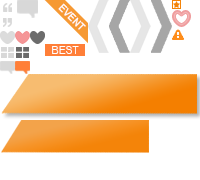
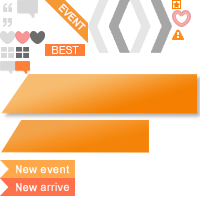
new 상품 띄우기 및 페이징 처리 수정 new arrive, new Event수정

diff --git a/mirros.mobile/src/main/webapp/resources/css/mobile-mirros.css b/mirros.mobile/src/main/webapp/resources/css/mobile-mirros.css
@@ -14,15 +14,15 @@
 }
 .mm-home-menu>span{ background: url("../images/mm-nav-btn.png") 0 -25px; display: block; width: 25px; height: 25px; text-indent: -9999px; margin: 8px auto 7px auto;}
 .mm-home-search>span{ background: url("../images/mm-nav-btn.png") 0 0; display: block; width: 25px; height: 25px; text-indent: -9999px; margin: 8px auto 7px auto;}
-.mm-home-nav>ul{ float: left; width: 100%;}
-.mm-home-nav>ul>li{float: left; width: 100%; height: 40px; text-align: center; line-height: 40px; border-bottom: 1px solid #dbd9ca;  }
+.mm-home-nav>ul{ float: left; width: 100%; }
+.mm-home-nav>ul>li{float: left; width: 100%; height: 40px; text-align: center; line-height: 40px; border-bottom: 1px solid #dbd9ca;  z-index :10;}
 .mm-home-nav>ul>li>a>span{font-family: Arial; font-size: 75%; cursor: pointer;}
 .mm-home-nav>ul>li>a, .mm-home-nav>ul>li>a:VISITED, .mm-home-nav>ul>li>a:HOVER{color: #646464;}
 
-.mm-home-sub-nav{ position: fixed; width: 140px; top: 0; left: 0; padding-top: 45px; margin-left: 69px; 	background:#f6f6f6;
+.mm-home-sub-nav{ position: fixed; width: 140px; top: 0; left: 0; padding-top: 45px; margin-left: 69px; background:#f6f6f6; z-index :4;
 	box-sizing: border-box; -o-box-sizing : border-box; -ms-box-sizing : border-box; -moz-box-sizing : border-box; -webkit-box-sizing : border-box;
 	box-shadow : 0 1px 3px rgba(34,25,25,0.3); -moz-box-shadow : 0 1px 3px rgba(34,25,25,0.3); -webkit-box-shadow : 0 1px 3px rgba(34,25,25,0.3);
-	display: none;
+	display: none; 
 }
 .mm-home-sub-nav>li{text-align: left; padding-left: 5px; float: left; width: 65px; border-bottom: 1px solid #dbd9ca;
 	height: 40px; line-height : 40px; 
@@ -33,16 +33,15 @@
 .mm-home-sub-nav>li>a, .mm-home-sub-nav>ul>li>a:VISITED, .mm-home-sub-nav>ul>li>a:HOVER{color: #646464;}
 
 .mm-home-search{width: 213px;}
+.mm-home-search>li{width: 208px;}
 .mm-home-search-input{
 	margin: 10px 0 0 0;
     width: 150px;
     background: url(../images/jt-search-white.png) no-repeat 8px 4px #fcfcfc;
     border: 1px solid #c3c4c4;
-    font: 75% Arial,Helvetica,Sans-serif;
+    font: 75% Dotum, Gulim;
     color: #737373;
     padding: 4px 15px 4px 35px;
-    text-shadow: 0 2px 3px rgba(0, 0, 0, 0.1);
-	box-shadow: 0 1px 3px rgba(0, 0, 0, 0.15) inset; -moz-box-shadow: 0 1px 3px rgba(0, 0, 0, 0.15) inset;     -webkit-box-shadow: 0 1px 3px rgba(0, 0, 0, 0.15) inset;
 }
 /********************************************
 *	Home 쇼핑몰 리스트 
@@ -71,7 +70,9 @@
 
 
 .mm-home-article>article>ul>li>.mm-home-mainImage-event{ position: absolute; height: 0; width: 100%; margin : 3px 0 0 -84px;  }
-.mm-home-article>article>ul>li>.mm-home-mainImage-event>span{ width: 43px; height: 43px; text-indent: -99999px; margin: -3px -3px 0 0; background: url("../images/jt-home-icon.png") no-repeat; background-position: -45px 0px; float:right; }
+.mm-home-article-new-wrap{float: right; width: 60%;}
+.mm-home-article-event-new{ text-indent: -99999px; margin: 5px -3px 0 0; background: url("../images/jt-home-icon.png") no-repeat; background-position: 0px -160px; float:right; width: 75px; height: 18px;}
+.mm-home-article-product-new{ text-indent: -99999px; margin: 5px -3px 0 0; background: url("../images/jt-home-icon.png") no-repeat; background-position: 0px -178px; float:right; width: 75px; height: 18px;}
 
 .mm-home-article>article>div{width: 100%; float: left;}
 .mm-home-article-quotationmark-first{ float:left; width: 10%; margin-top: 5px; }
@@ -287,8 +288,8 @@
 #mm-mir-products-dan>div img{ width: 140px; height: 140px; padding: 0px; float:left;}
 
 .mm-mir-events{width: 100%; float: left; background: #fff;}
-.mm-mir-events>div{ width: 50%; float: left; height: 20%;}
-.mm-mir-events>div>img{ width: 100%; height: 20%; max-width: 309px; max-height: 154px; margin: 0 auto; display: block;}
+.mm-mir-events>div{ width: 50%; float: left; height: 20%; }
+.mm-mir-events>div>img{ width: 100%; height: 20%; max-width: 309px; max-height: 154px; min-height : 70px; margin: 0 auto; display: block;}
 
 .mm-mir-events-new{ position: absolute; width: 50%;}
 .mm-mir-events-new>div{width: 100%; max-width: 309px; margin: 0 auto; display: block;}

diff --git a/mirros.mobile/src/main/webapp/resources/js/mobile.mirros.js b/mirros.mobile/src/main/webapp/resources/js/mobile.mirros.js
@@ -2,9 +2,9 @@ $(function(){
 	
 	$('.mm-home-nav-title').toggle(function(){
 		$('.mm-home-sub-nav').hide();
-		$(this).parents('li').find('.mm-home-sub-nav').slideDown();
+		$(this).parents('li').find('.mm-home-sub-nav').show();
 	}, function(){
-		$(this).parents('li').find('.mm-home-sub-nav').slideUp();
+		$(this).parents('li').find('.mm-home-sub-nav').hide();
 	});
 	
 	mobile.homeSync();
@@ -98,12 +98,16 @@ mobile.homeHtml = function(data) {
 		var imageHtml = '';
 
 		if(mainImages.length == 0){
-			imageHtml +='<img alt="Main Image Blank" src="'+contextPath+'/resources/images/jt-introduce-home-blank.png" title="'+ htmlChars(seller.name) + '"/>	';
+			imageHtml += '<div class="mm-home-mainImage-content">';	
+			imageHtml += '	<img alt="Main Image Blank" src="'+contextPath+'/resources/images/jt-introduce-home-blank.png" title="'+ htmlChars(seller.name) + '"/>	';
+			imageHtml += '</div>';
 		}
 		for ( var j = 0, jLen = mainImages.length; j < jLen; j++) {
 			var mainImage = mainImages[j];
 			var imageSrc = webPath + '/resources/uploadImage/'+ mainImage;
-			imageHtml += '<img alt="Main Image" src="' + imageSrc + '" title="'+ htmlChars(seller.name) + '"/>	';
+			imageHtml += '<div class="mm-home-mainImage-content">';	
+			imageHtml += '	<img alt="Main Image" src="' + imageSrc + '" title="'+ htmlChars(seller.name) + '"/>	';
+			imageHtml += '</div>';
 		}
 
 		var loveClick = !nullValueCheck(seller.customerPn) ? 'mm-home-love-click' : '';
@@ -115,6 +119,8 @@ mobile.homeHtml = function(data) {
 			loveHotCount = '';
 			loveWidth = '39';
 		}
+		var newProductStyle = seller.newProduct > 0 ? 'display: block;' : 'display:none;';
+		var newBannerStyle = seller.newBanner ? 'display: block;' : 'display:none;' ;
 		
 		html += '<article class="mm-home-article" data-spn="' + spn + '">';
 		html += '	<header class="mm-home-article-header">';
@@ -124,8 +130,13 @@ mobile.homeHtml = function(data) {
 		html += '		<ul class="mm-home-mainImage">';
 		html += '			<li>';
 		html += '				' + imageHtml;
-		html += '				<div>';
-		html += '					<span id="new-' + spn + '" style="'+((seller.bannerDate != null && Number(seller.bannerDate) < 3) ? "": "display:none;") +'">Event</span>';	
+		html += '				<div class="mm-home-mainImage-event">';
+		html += '					<div id="new-product-'+seller.pn+'" class="mm-home-article-new-wrap" style="'+newProductStyle+'">';
+		html += '						<span class="mm-home-article-product-new">New product</span>';
+		html += '					</div>';
+		html += '					<div id="new-'+seller.pn+'"  class="mm-home-article-new-wrap" style="'+newBannerStyle+'">';
+		html += '						<span class="mm-home-article-event-new">New event</span>';
+		html += '					</div>';
 		html += '				</div>';
 		html += '			</li>';
 		html += '		</ul>';

diff --git a/mirros.mobile/src/main/java/com/bg/jtown/security/JtownUser.java b/mirros.mobile/src/main/java/com/bg/jtown/security/JtownUser.java
@@ -39,6 +39,7 @@ public class JtownUser extends AbstractUser {
 	private Integer bannerDate;
 	private Integer bannerFirst;
 	private Integer bannerSecond;
+	private Integer newProduct;
 	private List<String> images;
 	private Integer customerPn;
 	private String interestCategory;
@@ -84,6 +85,14 @@ public class JtownUser extends AbstractUser {
 			}
 		}
 		return bannerDate;
+	}
+	
+	public boolean getNewBanner(){
+		Integer bannerDate = getBannerDate();
+		if(bannerDate != null && bannerDate < 3){
+			return true;
+		}
+		return false;
 	}
 	
 	public String getSixShopPn(){
@@ -287,6 +296,14 @@ public class JtownUser extends AbstractUser {
 	public void setBeginStartDate(String beginStartDate) {
 		this.beginStartDate = beginStartDate;
 	}
+	
+	public Integer getNewProduct() {
+		return newProduct;
+	}
+
+	public void setNewProduct(Integer newProduct) {
+		this.newProduct = newProduct;
+	}
 
 	@Override
 	public String toString() {
@@ -314,6 +331,7 @@ public class JtownUser extends AbstractUser {
 		sb.append("CustomerPn : ").append(this.customerPn).append(";");
 		sb.append("interestCategory : ").append(this.interestCategory).append("; ");
 		sb.append("interestSectionList : ").append(this.interestSectionList).append("; ");
+		sb.append("newProduct : ").append(this.newProduct).append("; ");
 		sb.append(" ] ");
 		sb.append("Admin : [ ");
 		sb.append("email : ").append(this.email).append("; ");

diff --git a/mirros.mobile/src/main/java/com/bg/jtown/business/home/HomeServiceImpl.java b/mirros.mobile/src/main/java/com/bg/jtown/business/home/HomeServiceImpl.java
@@ -68,10 +68,10 @@ public class HomeServiceImpl extends SqlSessionDaoSupport implements
 		Integer categoryPn = homeFilter.getCategoryPn();
 		Integer sectionPn = homeFilter.getSectionPn();
 		int count = 0;
-		if (categoryPn != null && !categoryPn.equals(0)) {
-			count = selectFromInterestCategoryCount(homeFilter);
-		} else if (sectionPn != null && !sectionPn.equals(0)) {
+		if (sectionPn != null && !sectionPn.equals(0)) {
 			count = selectFromInterestCount(homeFilter);
+		} else if (categoryPn != null && !categoryPn.equals(0)) {
+			count = selectFromInterestCategoryCount(homeFilter);
 		} else {
 			homeFilter.setCategoryPn(CATEGORY_DEFAULT_FASION);
 			count = selectFromInterestCategoryCount(homeFilter);

diff --git a/mirros.mobile/src/main/java/com/bg/jtown/business/Product.java b/mirros.mobile/src/main/java/com/bg/jtown/business/Product.java
@@ -2,6 +2,8 @@ package com.bg.jtown.business;
 
 import java.text.DecimalFormat;
 
+import com.bg.jtown.util.DateUtil;
+
 /**
  * @author Francis
  * 
@@ -68,6 +70,24 @@ public class Product {
 		}
 		DecimalFormat format = new DecimalFormat("#,###");
 		return format.format(Integer.parseInt(this.price));
+	}
+
+	public boolean getNewProduct() {
+		if (this.inputDate == null || this.inputDate.equals("")) {
+			return false;
+		}
+
+		try {
+			long diffDays = DateUtil.diffOfDate(this.inputDate,
+					DateUtil.getToday("YYYYMMDD"));
+			if (diffDays < 3) {
+				return true;
+			}
+		} catch (Exception e) {
+			e.printStackTrace();
+		}
+
+		return false;
 	}
 
 	public Integer getCount() {

diff --git a/mirros.mobile/src/main/java/com/bg/jtown/util/DateUtil.java b/mirros.mobile/src/main/java/com/bg/jtown/util/DateUtil.java
@@ -332,4 +332,17 @@ public class DateUtil {
 
 		return daysBetween;
 	}
+	
+	public static long diffOfDate(String begin, String end) throws Exception
+	  {
+	    SimpleDateFormat formatter = new SimpleDateFormat("yyyyMMdd");
+	 
+	    Date beginDate = formatter.parse(begin);
+	    Date endDate = formatter.parse(end);
+	 
+	    long diff = endDate.getTime() - beginDate.getTime();
+	    long diffDays = diff / (24 * 60 * 60 * 1000);
+	 
+	    return diffDays;
+	  }
 }
